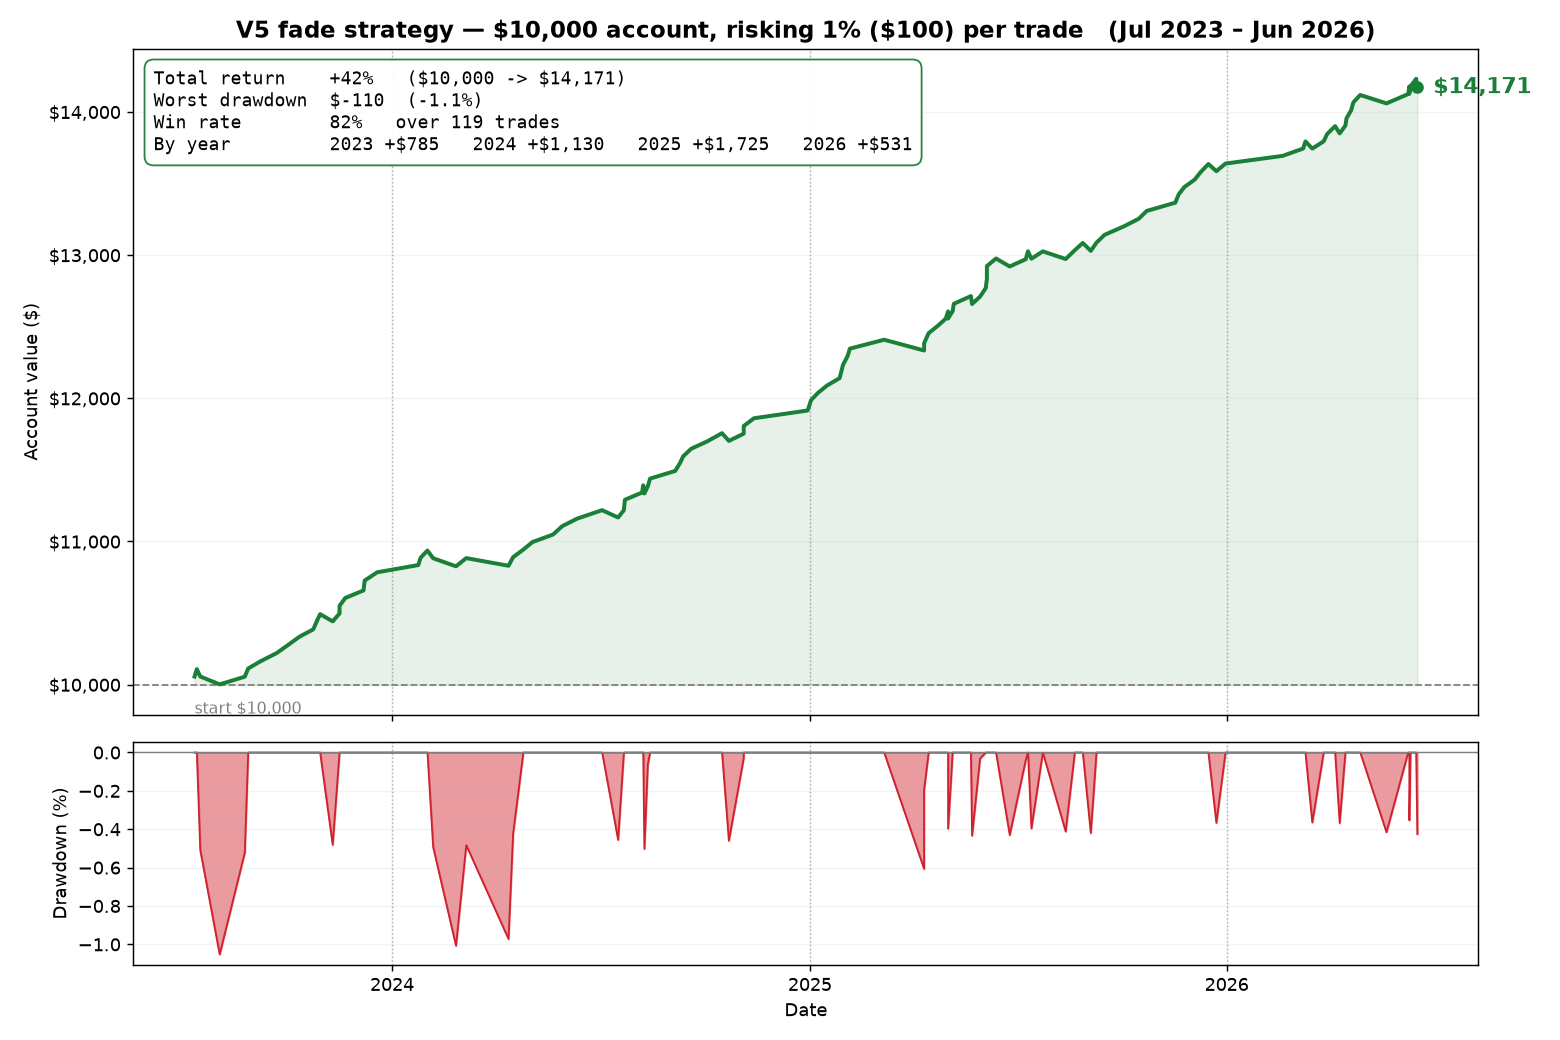
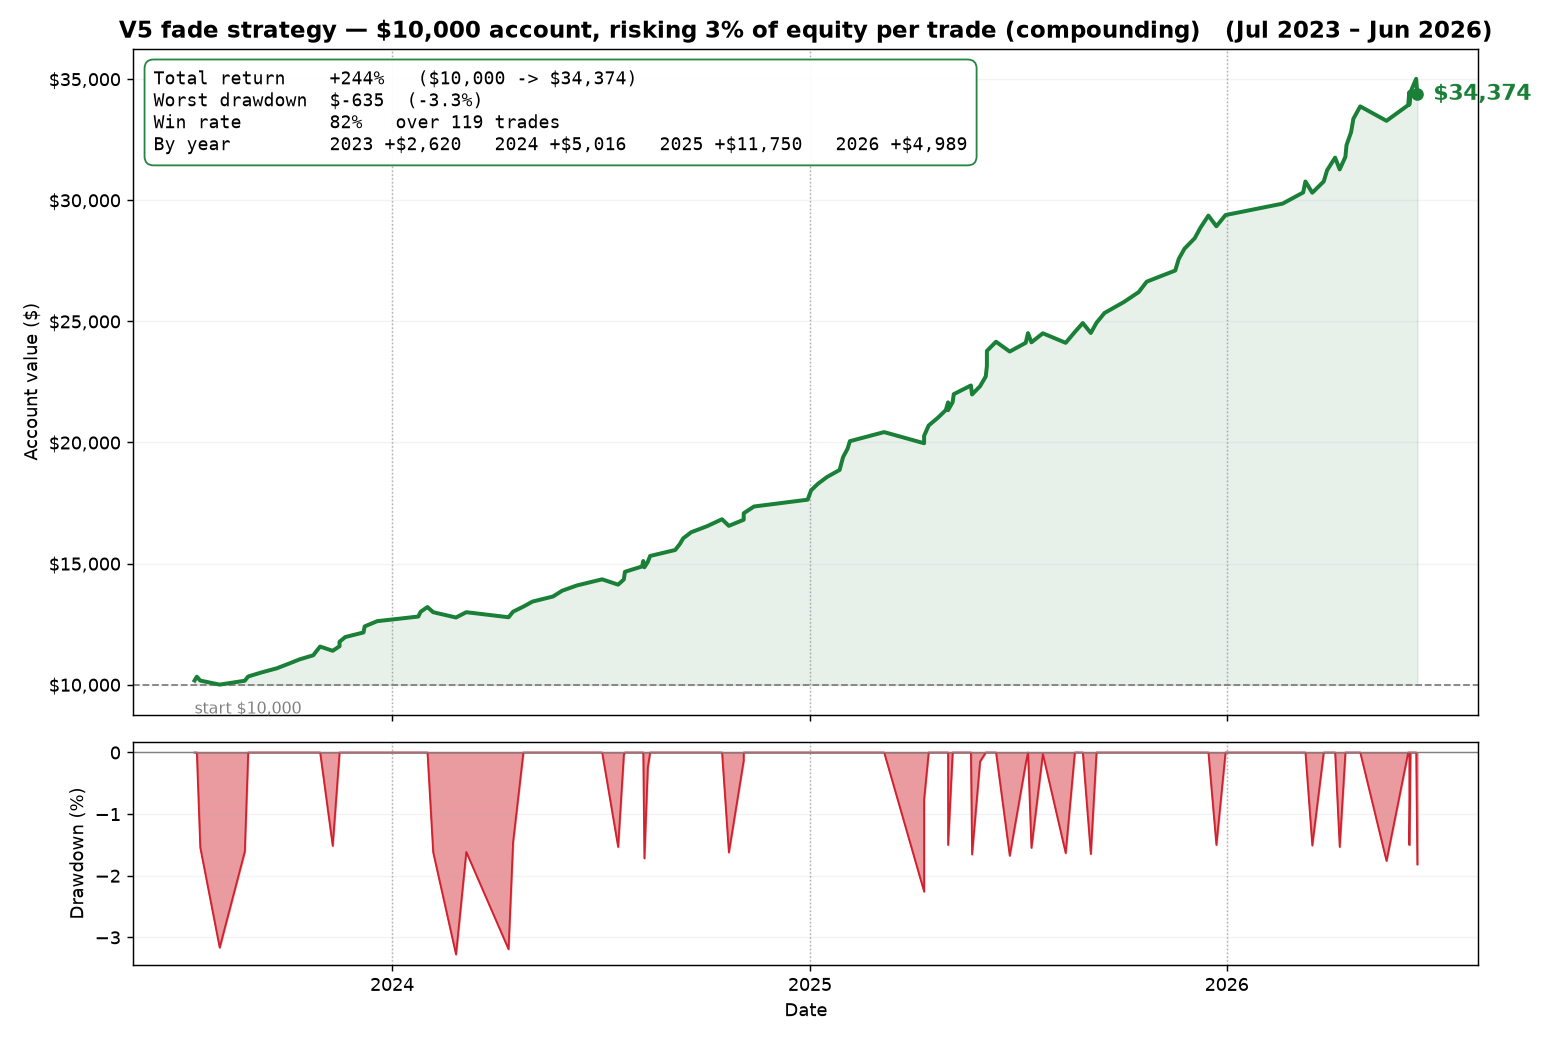
feat(v5): size at 3% of equity compounding — equity chart + README (k -> $34,374, +244%; honest stress note)

diff --git a/bot/plot_v5_results.py b/bot/plot_v5_results.py
@@ -1,6 +1,6 @@
 # plot_v5_results.py — visualize trading the V5 fade config (drop failed_c + active
-# exit, 0DTE debit spread) over the 3-yr backtest as a real $10k account risking 1%
-# per trade. Two panels: equity curve + underwater drawdown. Offline on cache.
+# exit, 0DTE debit spread) over the 3-yr backtest as a real $10k account risking 3%
+# of current equity per trade (compounding). Two panels: equity curve + drawdown. Offline.
 # Run: .venv/bin/python bot/plot_v5_results.py  -> results/v5_equity_curve.png
 import os
 from collections import defaultdict
@@ -15,8 +15,7 @@ import matplotlib.dates as mdates
 from backtest_fade_variants import collect_fade_trades, apply_variant, Variant, weighted_returns
 
 ACCOUNT0 = 10_000.0          # starting account
-RISK_PCT = 0.01              # risk 1% of the STARTING capital per trade
-R = ACCOUNT0 * RISK_PCT      # = $100 risked per trade (fixed-fractional on initial)
+RISK_PCT = 0.03              # risk 3% of CURRENT equity each trade (compounding)
 
 # --- V5 trades in date order ---
 trades = collect_fade_trades()
@@ -25,12 +24,14 @@ pairs = weighted_returns(rows, 0.0)                       # [(date, return-on-ri
 dates = [datetime.strptime(d, "%Y-%m-%d") for d, _ in pairs]
 rets = [w for _, w in pairs]
 
-# --- account equity ($) after each trade + drawdown ---
-equity, peak = [], ACCOUNT0
+# --- account equity ($) after each trade + drawdown (3% of CURRENT equity, compounding) ---
+equity, dd_dollar, dd_pct = [], [], []
 eq, pk = ACCOUNT0, ACCOUNT0
-dd_dollar, dd_pct = [], []
-for r in rets:
-    eq += R * r                                          # $ P&L = return-on-risk x $100
+by_year = defaultdict(float)
+for (d, _), r in zip(pairs, rets):
+    delta = RISK_PCT * eq * r                            # bet 3% of CURRENT equity, compounding
+    by_year[d[:4]] += delta
+    eq += delta
     equity.append(eq)
     pk = max(pk, eq)
     dd_dollar.append(eq - pk)
@@ -41,9 +42,6 @@ total_pct = (final - ACCOUNT0) / ACCOUNT0 * 100
 worst_dd_dollar = min(dd_dollar)
 worst_dd_pct = min(dd_pct)
 wins = sum(1 for r in rets if r > 0)
-by_year = defaultdict(float)
-for (d, _), r in zip(pairs, rets):
-    by_year[d[:4]] += R * r
 
 # --- plot ---
 fig, (ax1, ax2) = plt.subplots(2, 1, figsize=(12, 8), sharex=True,
@@ -58,7 +56,7 @@ ax1.annotate(f"  ${final:,.0f}", (dates[-1], final), va="center", fontsize=12,
              weight="bold", color="#1a7f37")
 ax1.annotate("start $10,000", (dates[0], ACCOUNT0), xytext=(0, -16),
              textcoords="offset points", fontsize=9, color="gray")
-ax1.set_title("V5 fade strategy — $10,000 account, risking 1% ($100) per trade   "
+ax1.set_title("V5 fade strategy — $10,000 account, risking 3% of equity per trade (compounding)   "
               "(Jul 2023 – Jun 2026)", fontsize=13, weight="bold")
 ax1.set_ylabel("Account value ($)")
 ax1.yaxis.set_major_formatter(lambda x, _: f"${x:,.0f}")

diff --git a/README.md b/README.md
@@ -33,7 +33,7 @@ Three years, July 2023 to June 2026, 119 trades on real IVolatility option price
 | Positive years | **all 4 (incl. 2026)** | 2 of 4 |
 | Survives 10¢/contract slippage | **yes** | yes |
 
-What that looks like as a real account: **$10,000 risking 1% per trade grows to about $14,171 (+42%), and the worst dip along the way is 1.1%.** Money made in every year, including 2026, the year the unfiltered version lost.
+What that looks like as a real account: **$10,000 compounding at 3% of equity per trade grows to about $34,374 (+244%) over the backtest, with a worst backtest dip of 3.3%.** Money made in every year, including 2026, the year the unfiltered version lost. Note that 3% is an aggressive size for an edge that has not traded live yet: the backtest dip is a lucky-ordering artifact, and a realistic worst case under stress testing is closer to 10%.
 
 Two findings mattered more than the numbers:
 